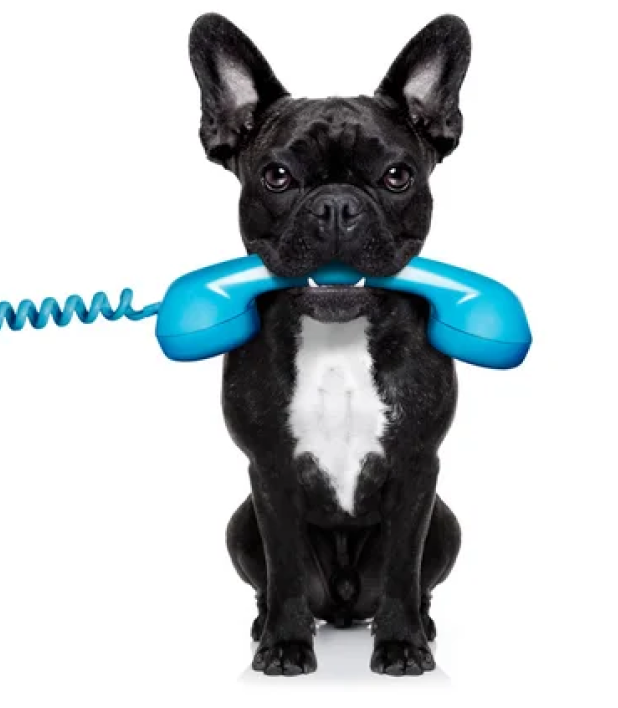
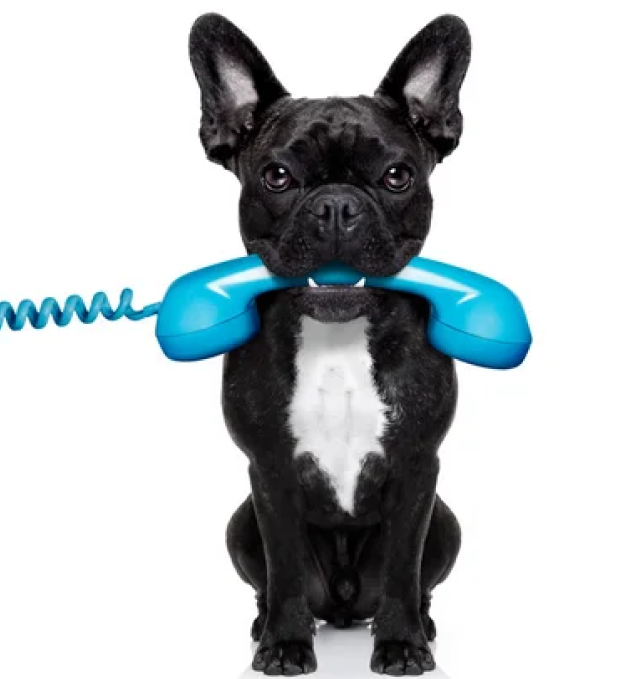
imagem da página contato redimensionada

Changed region(s): [[0.0, 0.0309, 0.8608, 1.0], [0.7379, 0.0928, 0.7686, 0.1237], [0.7071, 0.0, 0.7379, 0.0309]]

diff --git a/site/css/contato.css b/site/css/contato.css
@@ -1,6 +1,6 @@
 .content-container {
     width: 1358px;
-    height: 708px;
+    height: 630px;
     margin: 50px auto;
     display: flex;
     flex-direction: row;
@@ -45,10 +45,9 @@
 }
 
 .img-container {
-    /* width: 618px; */
-    height: 553px;
+    height: 630px;
     z-index: -1;
-    /* background-color:green; */
+    padding: 1px;
 }
 
 .img-container img {
